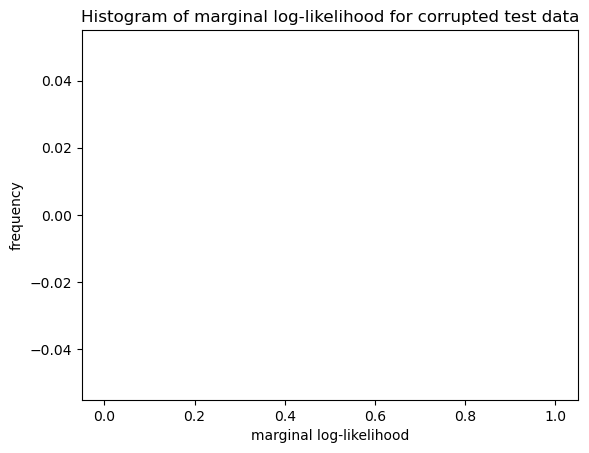
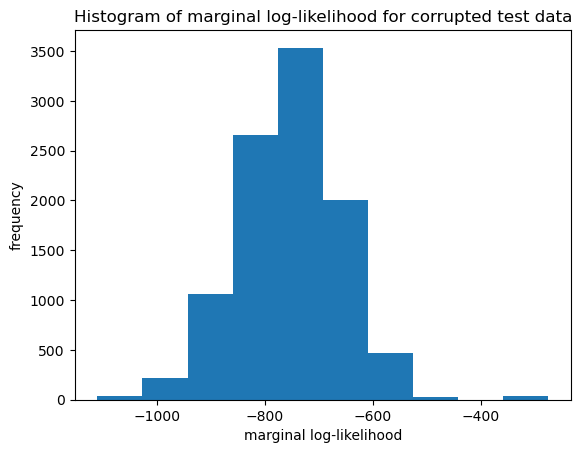
finish

diff --git a/pa1.py b/pa1.py
@@ -62,7 +62,43 @@ def get_conditional_expectation(data):
     :param data: Row vectors of data points X (n x 784)
     :return: array of E(z1 | X = data), array of E(z2 | X = data)
     """
-    pass
+    pz1_pz2 = np.zeros(25 * 25)
+    p_x_1 = np.zeros((25 * 25, len(data[0])))
+    p_x_0 = np.zeros((25 * 25, len(data[0])))
+    z_val = np.zeros(25 * 25)
+
+    i = 0
+    for z1 in z1_vals:
+        for z2 in z2_vals:
+            pz1_pz2[i] = np.log(get_p_z1(z1)) + np.log(get_p_z2(z2))
+            p_x_1[i] = np.log(get_p_x_cond_z1_z2(z1, z2))
+            p_x_0[i] = np.log(1 - get_p_x_cond_z1_z2(z1, z2))
+            z_val[i] = z1
+            i = i + 1
+
+    mean_z1 = []
+    for x in data:
+        denominator = pz1_pz2 + np.sum(np.where(x == 1, p_x_1, p_x_0), axis=1)
+        numerator = z_val * np.exp(denominator)
+        mean_z1.append(np.sum(numerator) / np.exp(logsumexp(denominator)))
+
+    i = 0
+    for z2 in z2_vals:
+        for z1 in z1_vals:
+            pz1_pz2[i] = np.log(get_p_z1(z1)) + np.log(get_p_z2(z2))
+            p_x_1[i] = np.log(get_p_x_cond_z1_z2(z1, z2))
+            p_x_0[i] = np.log(1 - get_p_x_cond_z1_z2(z1, z2))
+            z_val[i] = z2
+            i = i + 1
+
+    mean_z2 = []
+    for x in data:
+        denominator = pz1_pz2 + np.sum(np.where(x == 1, p_x_1, p_x_0), axis=1)
+        numerator = z_val * np.exp(denominator)
+        mean_z2.append(np.sum(numerator) / np.exp(logsumexp(denominator)))
+
+
+    return mean_z1, mean_z2
 
 
 # Below are two functions it is suggested you implement and use (but feel free to implement something else).
@@ -134,12 +170,6 @@ def q_3():
     val_data = mat['val_x']
     test_data = mat['test_x']
 
-    '''
-    TODO. Calculate marginal_log_likelihood of test samples classified as real and as corrupted.
-    '''
-    # Your code should calculate the two arrays below...
-
-
     z1_z2 = np.zeros(25 * 25)
     p_x_1 = np.zeros((25 * 25, len(val_data[0])))
     p_x_0 = np.zeros((25 * 25, len(val_data[0])))
@@ -155,8 +185,7 @@ def q_3():
 
     for x in val_data:
         product_log = np.sum(np.where(x == 1, p_x_1, p_x_0), axis=1) + z1_z2
-        product = np.exp(product_log)
-        loglike.append(np.log(np.sum(product)))
+        loglike.append(logsumexp(product_log))
 
     loglike = np.array(loglike)
     std = np.std(loglike)
@@ -165,8 +194,8 @@ def q_3():
     loglike_test = []
     for x in test_data:
         product_log = np.sum(np.where(x == 1, p_x_1, p_x_0), axis=1) + z1_z2
-        product = np.exp(product_log)
-        loglike_test.append(np.log(np.sum(product)))
+        loglike_test.append(logsumexp(product_log))
+
 
     loglike_test = np.array(loglike_test)
     real_images_indices = np.abs(loglike_test - mean) < (3 * std)
@@ -176,8 +205,8 @@ def q_3():
     plot_histogram(real_marginal_log_likelihood, title='Histogram of marginal log-likelihood for real test data',
              xlabel='marginal log-likelihood', savefile='q_3_hist_real')
 
-    # plot_histogram(corrupt_marginal_log_likelihood, title='Histogram of marginal log-likelihood for corrupted test data',
-    #     xlabel='marginal log-likelihood', savefile='q_3_hist_corrupt')
+    plot_histogram(corrupt_marginal_log_likelihood, title='Histogram of marginal log-likelihood for corrupted test data',
+        xlabel='marginal log-likelihood', savefile='q_3_hist_corrupt')
 
     plt.show()
     plt.close()
@@ -239,10 +268,11 @@ def main():
     z1_vals = sorted(bayes_net['prior_z1'].keys())
     z2_vals = sorted(bayes_net['prior_z2'].keys())
 
+
     # TODO: Using the above Bayesian Network model, complete the following parts.
     # q_1()
-    # q_2()
-    q_3()
+    q_2()
+    # q_3()
     q_4()
 
 if __name__== '__main__':
